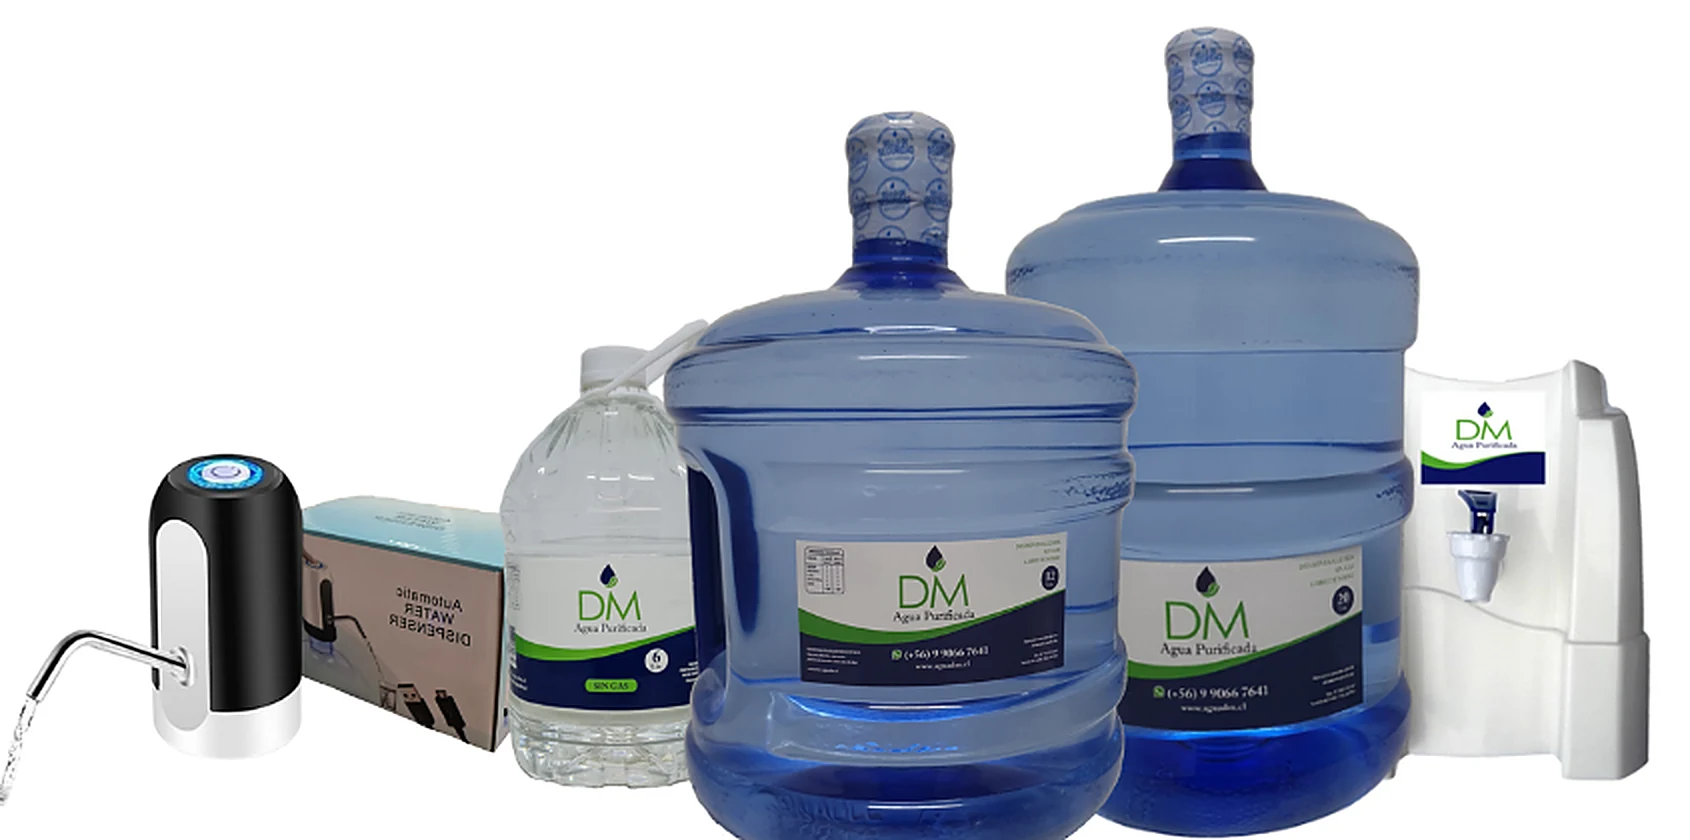
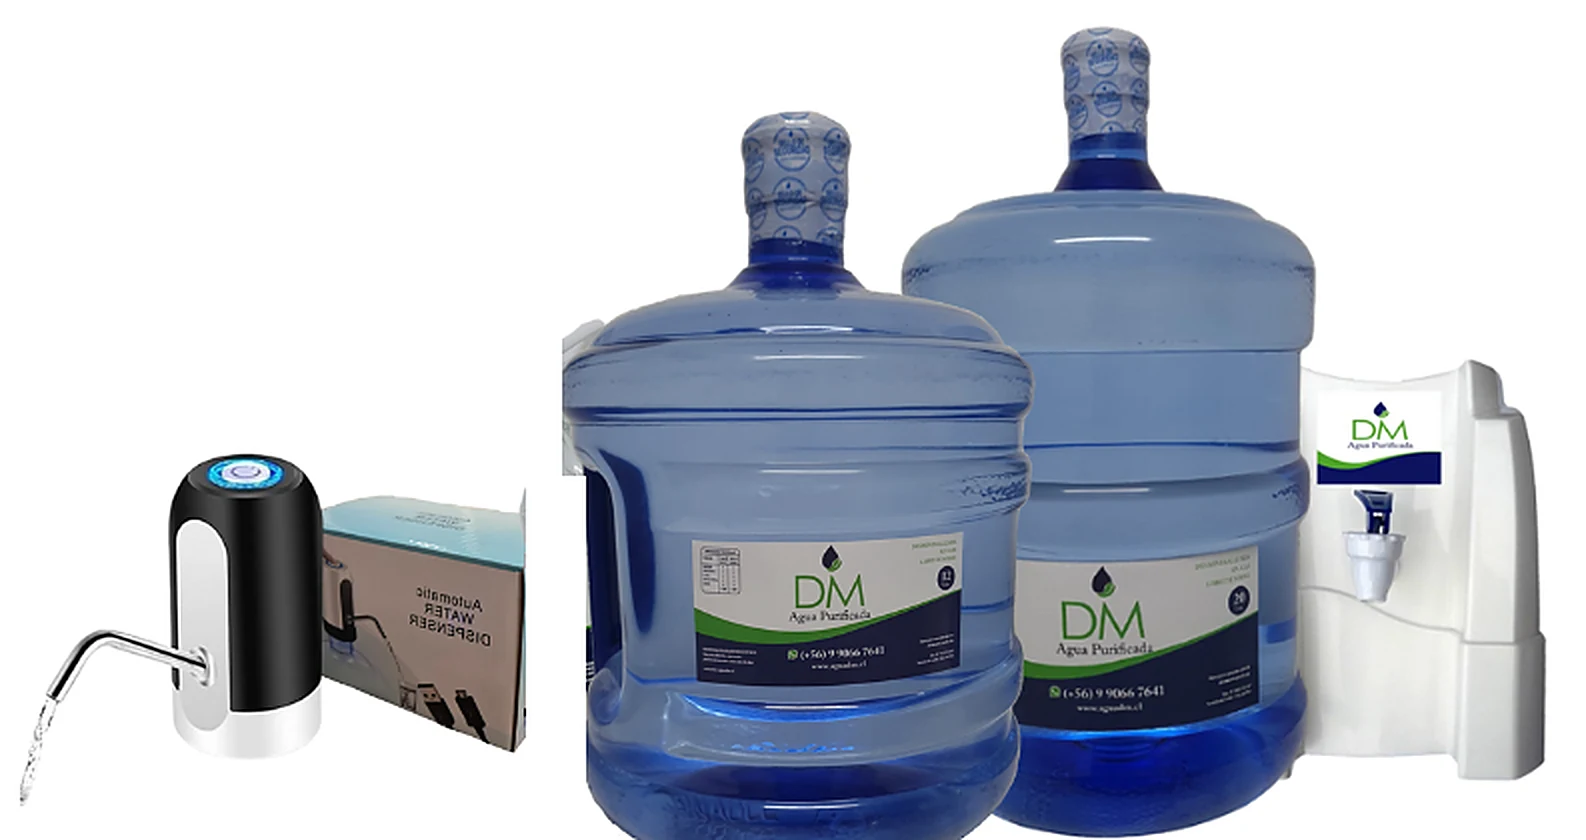
fix(landing): quita el bidón de 6 L y el fondo de agua; bidones completos en sus tarjetas (#94)
- La imagen del inicio ya no muestra el bidón de 6 L, que dejó de venderse; el dispensador USB se acercó al resto.

- Se quita el chorro de agua animado detrás de los productos.

- Las fotos de bidones (fondo de cocina) se muestran completas sobre una versión difuminada de la misma foto, en vez de recortadas.

Changed region(s): [[0.0, 0.031, 0.9887, 1.0], [0.6797, 0.2786, 0.7415, 0.3095], [0.7106, 0.5571, 0.7415, 0.5881]]

diff --git a/SIGPA_ADM/Frontend/src/landing.css b/SIGPA_ADM/Frontend/src/landing.css
@@ -43,11 +43,10 @@ html:has(.lp){background:#e9f0f7}
 .lp-hero h1{font-size:clamp(44px,5.8vw,84px);font-weight:800;text-transform:uppercase;color:var(--azul)}
 .lp-lead{font-size:clamp(18px,1.6vw,21px);color:var(--gris);margin:22px 0 30px;max-width:36ch;text-wrap:pretty}
 .lp-acciones{display:flex;flex-wrap:wrap;gap:12px}
-/* El chorro de agua y los productos tienen fondo blanco: multiply lo funde con el pastel.
-   El contenedor lleva el mismo color del fondo para que la mezcla tenga contra qué operar
-   aunque la animación de entrada lo aísle en su propio grupo. */
-.lp-hero-visual{position:relative;isolation:isolate;background:var(--fondo)}
-.lp-agua{position:absolute;inset:0;width:100%;height:100%;object-fit:cover;z-index:-1;mix-blend-mode:multiply;opacity:.6;-webkit-mask-image:radial-gradient(closest-side,#000 60%,transparent);mask-image:radial-gradient(closest-side,#000 60%,transparent)}
+/* Los productos tienen fondo blanco: multiply lo funde con el pastel. El contenedor lleva
+   el mismo color del fondo para que la mezcla funcione aunque la animación lo aísle.
+   El padding deja espacio para que la imagen "flote" sin salirse de ese fondo. */
+.lp-hero-visual{position:relative;isolation:isolate;background:var(--fondo);padding:16px 0}
 .lp-hero-foto{width:100%;mix-blend-mode:multiply}
 
 .lp-ola{display:block;width:100%;height:clamp(60px,9vw,140px);margin-bottom:-2px}
@@ -84,7 +83,9 @@ html:has(.lp){background:#e9f0f7}
 .lp-card h4{font-size:30px;font-weight:700;color:var(--azul)}
 .lp-card p{color:var(--gris);margin:4px 0 12px}
 .lp-foto{position:relative;isolation:isolate;background:var(--superficie);overflow:hidden}
-.lp-foto img{position:absolute;inset:0;width:100%;height:100%;object-fit:cover;object-position:50% 8%;transition:transform .5s var(--ease-out)}
+.lp-foto img{position:absolute;inset:0;width:100%;height:100%;object-fit:contain;transition:transform .5s var(--ease-out)}
+/* Fotos con fondo propio: la imagen completa encima de su versión difuminada (sin franjas vacías) */
+.lp-foto:not(.recorte)::before{content:"";position:absolute;inset:-24px;z-index:-1;background:var(--img) center/cover;filter:blur(16px) saturate(1.1);opacity:.85}
 .lp-foto.recorte{background:var(--fondo)}
 .lp-foto.recorte img{object-fit:contain;mix-blend-mode:multiply;padding:12px}
 .lp-card-foto{display:grid;grid-template-columns:38% 1fr;align-items:stretch}
@@ -145,7 +146,6 @@ html:has(.lp){background:#e9f0f7}
   .lp-hero-texto>*{animation:lp-entra .7s var(--ease-entrada) backwards;animation-delay:calc(var(--d,0) * 70ms)}
   .lp-hero-visual{animation:lp-entra-foto .9s var(--ease-entrada) .15s both}
   .lp-hero-foto{animation:lp-flota 7s ease-in-out 1.1s infinite}
-  .lp-agua{animation:lp-respira 12s ease-in-out infinite alternate}
   /* La ola se mece y las burbujas suben */
   .ola-verde{animation:lp-ola 10s ease-in-out infinite alternate}
   .ola-azul{animation:lp-ola 13s ease-in-out infinite alternate-reverse}
@@ -160,7 +160,6 @@ html:has(.lp){background:#e9f0f7}
 @keyframes lp-entra{from{opacity:0;transform:translateY(20px)}}
 @keyframes lp-entra-foto{from{opacity:0;transform:translateY(24px) scale(.97)}}
 @keyframes lp-flota{50%{transform:translateY(-8px)}}
-@keyframes lp-respira{to{transform:scale(1.05) rotate(-1deg)}}
 @keyframes lp-ola{from{transform:translateX(-70px)}to{transform:translateX(70px)}}
 @keyframes lp-burbuja{0%{opacity:0;transform:translateY(0)}12%{opacity:1}80%{opacity:.7}100%{opacity:0;transform:translateY(-760px) translateX(14px)}}
 @keyframes lp-hoy{50%{box-shadow:0 0 0 6px rgba(255,211,26,.45)}}

diff --git a/SIGPA_ADM/Frontend/src/Landing.jsx b/SIGPA_ADM/Frontend/src/Landing.jsx
@@ -47,7 +47,8 @@ function Precio({ valor, children }) {
 }
 
 function Foto({ item, className }) {
-  return <div className={`lp-foto${item.fondoBlanco ? ' recorte' : ''}${className ? ` ${className}` : ''}`}><img src={item.imagen} alt={item.nombre} loading="lazy"/></div>;
+  // Fotos con fondo propio (cocina): se muestran completas, con la misma foto difuminada detrás.
+  return <div className={`lp-foto${item.fondoBlanco ? ' recorte' : ''}${className ? ` ${className}` : ''}`} style={item.fondoBlanco ? undefined : { '--img': `url(${item.imagen})` }}><img src={item.imagen} alt={item.nombre} loading="lazy"/></div>;
 }
 
 export default function Landing({ onAdmin }) {
@@ -76,8 +77,7 @@ export default function Landing({ onAdmin }) {
           </div>
         </div>
         <div className="lp-hero-visual">
-          <img className="lp-agua" src="/marca/agua.webp" alt="" width="1300" height="1190"/>
-          <img className="lp-hero-foto" src="/marca/productos.webp" alt="Bidones de 20 y 12 litros, botella de 6 litros, dispensador USB y dispensador básico de Agua DM" width="1690" height="840" fetchPriority="high"/>
+          <img className="lp-hero-foto" src="/marca/productos.webp" alt="Dispensador USB, bidones de 12 y 20 litros y dispensador básico de Agua DM" width="1586" height="840" fetchPriority="high"/>
         </div>
       </section>
 
